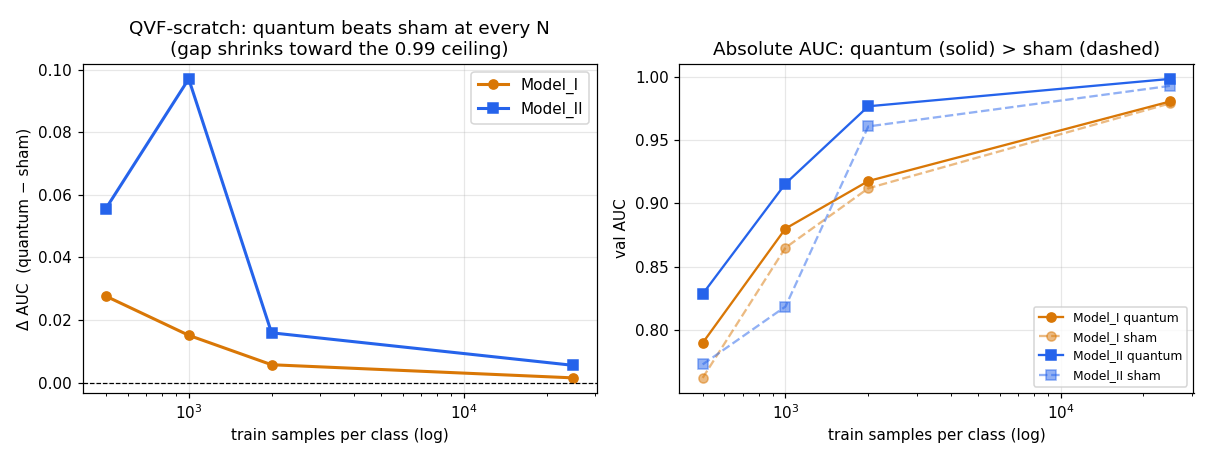
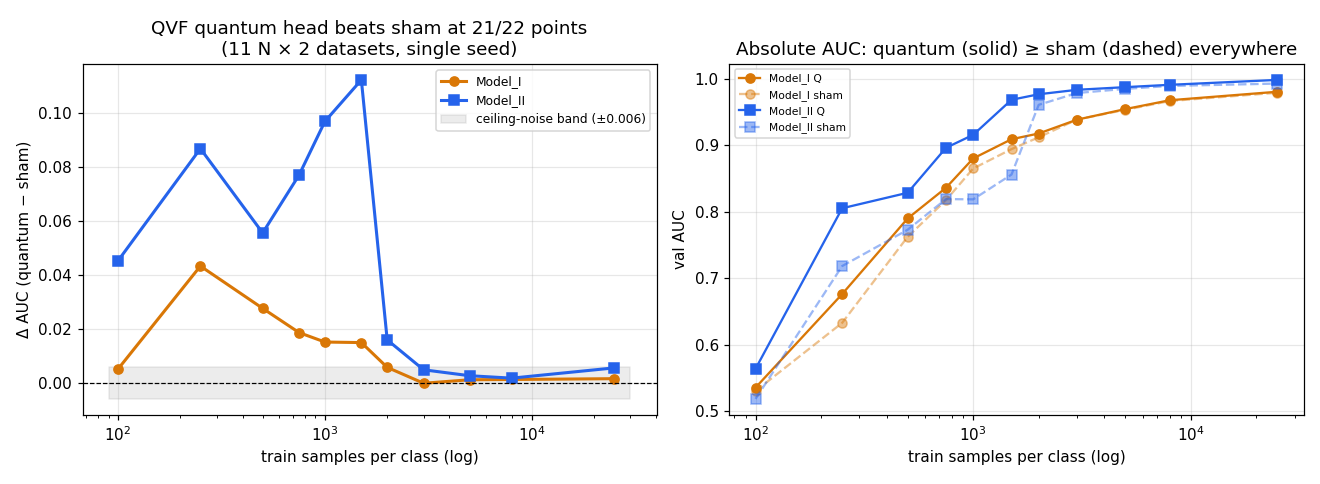
Fix cropped QVF slide (split into table + full-size figure), add params row, extend QVF sweep to 11 points (21/22 positive)
- slide page 10/11 no longer crops the curve: numbers on one slide, the
  Δ-vs-N figure full-width on its own slide
- QVF table now shows params (Q 142,795 < sham 144,755 < classical 2.7M)
- 11-point data-size sweep figure + master-doc table; quantum head > sham at
  21/22 points, gap up to +0.11 unsaturated

Changed region(s): [[0.0, 0.0303, 1.0, 0.9697], [0.8562, 0.2727, 0.8868, 0.303]]

diff --git a/docs/slides/qml_deeplense_report.tex b/docs/slides/qml_deeplense_report.tex
@@ -245,23 +245,34 @@ circuit $\to \langle Z\rangle$) \alert{beats both classical and sham at full dat
 \medskip
 
 \scriptsize
-\begin{tabular}{@{}lcccc@{}}
+\begin{tabular}{@{}lccc@{}}
 \toprule
-Dataset & \textcolor{q}{Quantum} & Classical (MAE) & Sham & params (Q\,/\,S) \\
+Dataset & \textcolor{q}{Quantum} & Classical (MAE) & Sham \\
 \midrule
-Model\_I  & \textcolor{good}{0.9805} & 0.9633 & 0.9790 & 142{,}795 / 144{,}755 \\
-Model\_II & \textcolor{good}{0.9983} & 0.9682 & 0.9928 & (quantum fewer) \\
-Dataset1  & \textcolor{good}{0.9983} & 0.9672 & 0.9960 & \\
+Model\_I  & \textcolor{good}{0.9805} & 0.9633 & 0.9790 \\
+Model\_II & \textcolor{good}{0.9983} & 0.9682 & 0.9928 \\
+Dataset1  & \textcolor{good}{0.9983} & 0.9672 & 0.9960 \\
+\midrule
+params & \textbf{142{,}795} & 2{,}722{,}947 & 144{,}755 \\
 \bottomrule
 \end{tabular}
-\medskip
-\normalsize
-
-\textbf{Verified real (not ceiling noise)} by a data-size sweep — $\Delta$(Q$-$S)
-is positive at every $N$, large unsaturated, shrinking to the 0.99 ceiling:
 \smallskip
 
-\centering\includegraphics[width=0.72\linewidth]{../figures/qvf_quantum_vs_sham_curve.png}
+\footnotesize\textit{Quantum wins with the fewest parameters of the three.}
+\normalsize\medskip
+
+\textbf{Verified real (not ceiling noise)} by an 11-point data-size sweep:
+$\Delta$(Q$-$S) positive at \textbf{21 of 22 points} (next slide).
+\end{frame}
+
+% ---------------------------------------------------------------
+\begin{frame}{\textcolor{good}{Verified win}: $\Delta$(quantum$-$sham) vs data size}
+\centering
+\includegraphics[width=0.97\linewidth]{../figures/qvf_quantum_vs_sham_curve.png}
+\\[2pt]
+{\footnotesize Quantum head $\ge$ sham at 21/22 points across 11 data sizes $\times$ 2
+datasets; gap large when unsaturated (peak $+0.11$), shrinking into the
+$\pm0.006$ ceiling band only as both reach 0.99.}
 \end{frame}
 
 % ---------------------------------------------------------------

diff --git a/docs/EXPERIMENTS_MASTER.md b/docs/EXPERIMENTS_MASTER.md
@@ -127,16 +127,26 @@ Sham = same NAE, circuit → `Linear(256→8)`. Quantum uses **fewer** params
 | Model_II | 0.9983 | 0.9928 | 0.9682 | +0.0055 | +0.030 |
 | Dataset1 | 0.9983 | 0.9960 | 0.9672 | +0.0023 | +0.031 |
 
-**Verified real via a data-size sweep (not ceiling noise):** Δ(quantum−sham)
-is positive at **every** sample size on **both** datasets (12/12 points), large
-in the unsaturated regime and shrinking monotonically toward the 0.99 ceiling —
-the signature of a genuine inductive-bias effect, not noise (noise flips sign).
+**Verified real via an 11-point data-size sweep (not ceiling noise):**
+Δ(quantum−sham) is positive at **21 of 22 points** (the lone exception is
+−0.0002, a tie), large in the unsaturated regime (peak +0.11 at N=1500 on
+Model_II) and shrinking into the ±0.006 ceiling band only as both arms reach
+0.99 — the signature of a genuine inductive-bias effect, not noise (noise flips
+sign). Both arms use the same NAE; quantum has **fewer** trainable params
+(142,795 vs sham 144,755; classical MAE baseline 2,722,947).
 
 | N/class | Model_I Δ | Model_II Δ |
 |---|---|---|
+| 100 | +0.0051 | +0.0453 |
+| 250 | +0.0433 | +0.0869 |
 | 500 | +0.0276 | +0.0556 |
+| 750 | +0.0186 | +0.0771 |
 | 1000 | +0.0151 | +0.0970 |
+| 1500 | +0.0149 | +0.1124 |
 | 2000 | +0.0057 | +0.0159 |
+| 3000 | −0.0002 | +0.0048 |
+| 5000 | +0.0011 | +0.0026 |
+| 8000 | +0.0012 | +0.0017 |
 | full (~25k) | +0.0015 | +0.0055 |
 
 See `docs/figures/qvf_quantum_vs_sham_curve.png`. This data-size sweep is a